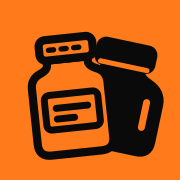
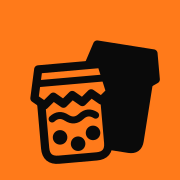
Barattoli di conserva, ondina rossa, niente fessura sotto la ricerca
- Oggetto simbolo ridisegnato: vasetti di marmellata col tessuto legato e
  i frutti dentro (prima sembravano flaconi di medicine); icone e splash
  rigenerate.
- Sottolineatura ondulata rossa (intro e accesso), come richiesto.
- Dispensa: la barra dei reparti si aggancia all altezza reale della
  ricerca fissa, così scorrendo non resta una fessura sulla lista.

Changed region(s): [[0.1389, 0.1667, 0.9167, 0.9167]]

diff --git a/src/components/Barattoli.jsx b/src/components/Barattoli.jsx
@@ -1,24 +1,25 @@
-// Oggetto simbolo dell'app: due barattoli (come i due biglietti di Wishlist
-// Viaggi e i due scontrini di Expense Track). Quello dietro è pieno col colore
-// del testo (currentColor), quello davanti ha il colore `fill` (di solito
-// quello della superficie) con coperchio ed etichetta. Stesso disegno di
-// public/icon.svg.
+// Oggetto simbolo dell'app: due barattoli di conserva fatta in casa, col
+// tessuto legato sul coperchio (come i due biglietti di Wishlist Viaggi e i
+// due scontrini di Expense Track). Quello dietro è pieno col colore del testo
+// (currentColor), quello davanti ha il colore `fill` con la marmellata e i
+// frutti dentro. Stesso disegno di public/icon.svg.
 export default function Barattoli({ size = 48, fill = "#fff", className = "" }) {
   return (
     <svg width={size} height={size} viewBox="0 0 48 48" fill="none" strokeLinecap="round" strokeLinejoin="round" className={className} aria-hidden="true">
-      <g transform="translate(15.5 0.5) rotate(12 17 26)">
-        <rect x="8.5" y="9" width="17" height="6.5" rx="1.8" fill="currentColor" stroke="currentColor" strokeWidth="2.6" />
-        <path d="M11 15.5H23V16.8Q23 18.2 26 19.4Q30.5 21.2 30.5 25.5V37.5Q30.5 41.5 26.5 41.5H7.5Q3.5 41.5 3.5 37.5V25.5Q3.5 21.2 8 19.4Q11 18.2 11 16.8Z" fill="currentColor" stroke="currentColor" strokeWidth="2.6" />
-        {/* stacco del coperchio e riflesso del vetro, nel colore della superficie */}
-        <path d="M9.5 15.6h15" stroke={fill} strokeWidth="1.6" />
-        <path d="M26.5 25.5v8" stroke={fill} strokeWidth="2.2" />
+      {/* dietro: barattolo alto, pieno */}
+      <g transform="translate(17 -1) rotate(9 14 26)" fill="currentColor" stroke="currentColor" strokeWidth="2.6">
+        <path d="M7 20H25V40Q25 43 22 43H10Q7 43 7 40Z"/>
+        <path d="M5 20L7 12H25L27 20L24.5 22L22 20L19.5 22L17 20L14.5 22L12 20L9.5 22L7 20Z"/>
       </g>
-      <g transform="translate(2 2.5) rotate(-6 16 24)" stroke="currentColor">
-        <path d="M9.5 11.5H22.5V13Q22.5 14.5 25 15.5Q28 16.8 28 20V37.5Q28 41.5 24 41.5H8Q4 41.5 4 37.5V20Q4 16.8 7 15.5Q9.5 14.5 9.5 13Z" fill={fill} strokeWidth="2.6" />
-        <rect x="7.5" y="5" width="17" height="6.5" rx="2" fill={fill} strokeWidth="2.6" />
-        <path d="M10.5 8.3h11" strokeWidth="1.7" strokeDasharray="1.6 2.4" />
-        <rect x="7.5" y="22.5" width="17" height="11" rx="1.6" strokeWidth="2.2" />
-        <path d="M11 26.8h10M11 30.2h5.5" strokeWidth="2.2" />
+      {/* davanti: barattolo basso col tessuto a smerlo e la marmellata */}
+      <g transform="translate(1 3) rotate(-5 18 30)" stroke="currentColor">
+        <path d="M8 23H28V39Q28 43 24 43H12Q8 43 8 39Z" fill={fill} strokeWidth="2.6"/>
+        <path d="M6 23L8 14H28L30 23L27 25.5L24 23L21 25.5L18 23L15 25.5L12 23L9 25.5L6 23Z" fill={fill} strokeWidth="2.6"/>
+        <path d="M7.4 18.5H28.6" strokeWidth="2.2"/>
+        <path d="M11 30q2.3-1.8 4.6 0t4.6 0t4.6 0" strokeWidth="2.2"/>
+        <circle cx="13" cy="36" r="1.8" fill="currentColor" strokeWidth="1"/>
+        <circle cx="18.5" cy="38.5" r="1.8" fill="currentColor" strokeWidth="1"/>
+        <circle cx="23.5" cy="35.5" r="1.8" fill="currentColor" strokeWidth="1"/>
       </g>
     </svg>
   );

diff --git a/src/components/PantryTab.jsx b/src/components/PantryTab.jsx
@@ -63,6 +63,18 @@ export default function PantryTab({
   const [expDraft, setExpDraft] = useState(""); // valore della scadenza nel pannello
   // Barra sticky: espansione verticale di tutti i reparti (niente swipe).
   const [catsExpanded, setCatsExpanded] = useState(false);
+  // Altezza reale della ricerca fissa: la barra dei reparti si aggancia
+  // subito sotto (1px di sovrapposizione), così scorrendo non resta una
+  // fessura da cui si intravede la lista (su iPhone l'altezza varia di poco).
+  const searchRef = useRef(null);
+  const [searchH, setSearchH] = useState(76);
+  useEffect(() => {
+    const el = searchRef.current;
+    if (!el || typeof ResizeObserver === "undefined") return;
+    const ro = new ResizeObserver(() => setSearchH(Math.round(el.getBoundingClientRect().height)));
+    ro.observe(el);
+    return () => ro.disconnect();
+  }, []);
 
   // --- Pannello prodotto con salvataggio automatico ---
   // Le modifiche si applicano da sole (nome al blur, quantità con una breve
@@ -215,7 +227,7 @@ export default function PantryTab({
 
       {/* Occhiello rosso + ricerca: bloccati insieme in alto durante lo scroll
           (con l'ordinamento dietro l'icona). */}
-      <div className="sticky top-0 z-30 -mx-4 mt-5 bg-sfondo px-4 pb-1.5 pt-2">
+      <div ref={searchRef} className="sticky top-0 z-30 -mx-4 mt-5 bg-sfondo px-4 pb-1.5 pt-2">
       <div className="micro">{shared ? "La nostra dispensa" : "La tua dispensa"}</div>
       <div className="relative">
         <Search className="pointer-events-none absolute left-0 top-1/2 h-5 w-5 -translate-y-1/2 text-ink" />
@@ -312,7 +324,7 @@ export default function PantryTab({
           riga visibile è la prima riga del menù espanso. Niente scorrimento
           laterale, niente numeri. */}
       {grouped.length > 1 && (
-        <div className="sticky top-[4.8rem] z-20 -mx-4 mt-3 bg-sfondo py-2 pl-4 pr-2.5">
+        <div className="sticky z-20 -mx-4 mt-3 bg-sfondo py-2 pl-4 pr-2.5" style={{ top: searchH - 1 }}>
           <div className="flex items-start gap-1.5">
             {/* Chiuso: riga unica scorrevole (swipe) come prima. Aperto: le
                 stesse chip vanno a capo su più righe — la prima riga coincide

diff --git a/src/components/Auth.jsx b/src/components/Auth.jsx
@@ -118,7 +118,7 @@ export default function Auth() {
         <Barattoli size={92} fill={PAGE_COLOR.accesso} className="-ml-1 mb-3 text-ink" />
         <h1 className="gigante">
           Cosa c&rsquo;è in{" "}
-          <span className="underline decoration-ink decoration-wavy decoration-[3px] underline-offset-[10px] [text-decoration-skip-ink:none]">dispensa</span>?
+          <span className="underline decoration-rosso-azione decoration-wavy decoration-[3px] underline-offset-[10px] [text-decoration-skip-ink:none]">dispensa</span>?
         </h1>
 
         {/* Sottotitolo: la promessa. "Meno sprechi" su pillola verde (il verde

diff --git a/src/index.css b/src/index.css
@@ -375,7 +375,7 @@ svg.lucide {
 }
 .splash-uline path {
   fill: none;
-  stroke: #0a0a0a;
+  stroke: #e02a0d; /* ondina rossa (scelta utente) */
   stroke-width: 5;
   stroke-linecap: round;
   stroke-dasharray: var(--dash, 220);
